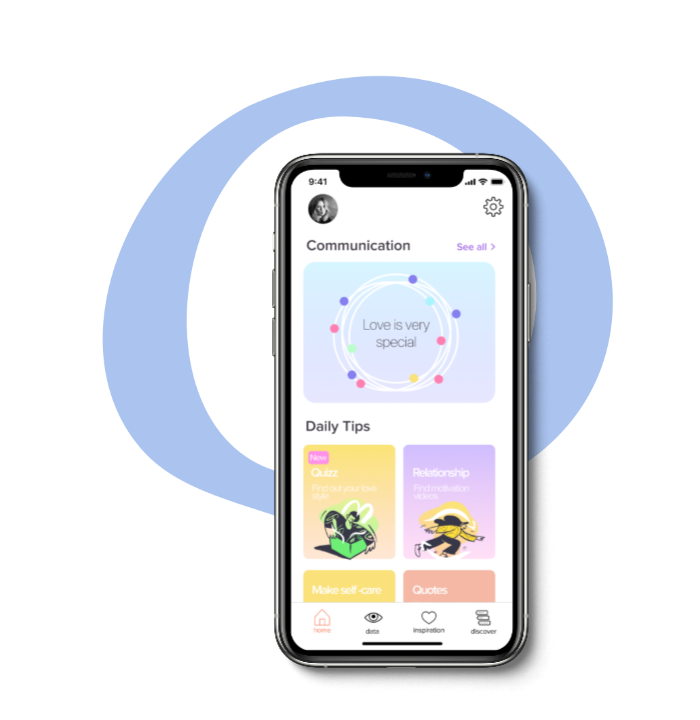
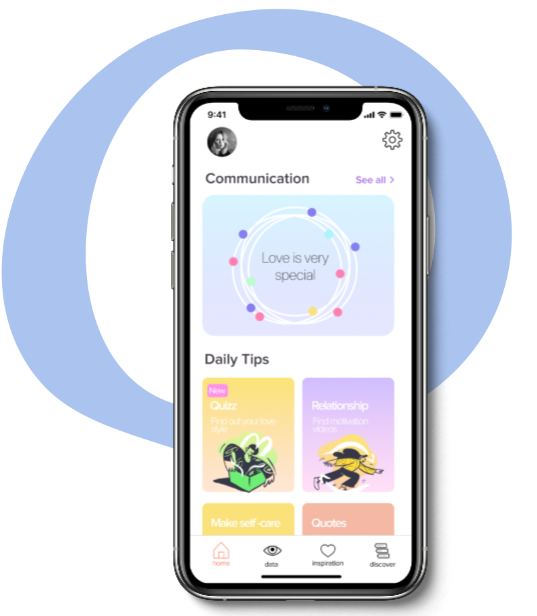
Updated to Jumbotron

diff --git a/index.html b/index.html
@@ -62,18 +62,18 @@
         </div>
       </nav>
 
-
-<div class="container">
+<div class="jumbotron hero">
+<div class="container test">
     <div class="row">
-          <div class="col-5">
+          <div class="col-5 test">
               <h1 class="kerning">CommuniKate</h1><br>
             <h3>Love with Confidence.</br></br>
                 <h4>Send confident, clear and healthy messages with CommuniKate’s AI-powered writing side-kick.</h4>
             <img id="apple" src="images/AppStore.png">
             <img id="google" src="images/GooglePlay.png"> 
           </div>
-          <div class="col">
-            <img class="iphone" alt="iphone" src="images/heroimage.png">
+          <div class="col test">
+            <img class="iphone" alt="iphone" src="images/iphone-xs-mockup-perspective-style-right.png">
         </div>
     </div> 
 </div>
@@ -140,16 +140,27 @@
         <div class="col-sm">
             <h5><img id ="imglogo" src="images/Overline Mark.png"> OUR CUSTOMERS</h5>
             <h3>What does everyone think?</h3></div>
-        <div class="col-sm" id="Jenny">
+        <div class="col-sm quotes">
               <p>"Wow I love it, it feels like a friend is sitting next to me and is kind of cheering me on."</p>
               <h4><img class="icons" alt="loveheart" src="images/icons8-heart-100 1.png">Jenny Smith</h4>
         </div>
-        <div class="col-sm" id="Melissa">  
+        <div class="col-sm quotes"> 
               <p>"Usually it would take me forever to think of a response, so having a suggestions has really helped me stay calm and communicate effectively"</p>
                 <h4><img class="icons" alt="loveheart" src="images/icons8-ball-point-pen-128 1.png">Melissa Heart</h4>
         </div>
     </div>
 </div>
+
+<!-- <div class="jumbotron download test"> -->
+    <div class="container download">
+        <div class="row">
+            <div class="col-sm">
+                <h3>Download from the App Store or Google Play, install the plugin and check your relationship vibe. </h3></div>
+            <div class="col-sm">
+                <img id="apple" src="images/AppStore.png"><img id="google" src="images/GooglePlay.png"> 
+        </div>
+    <!-- </div> -->
+
 
 </body>
 </html>

diff --git a/css/style.css b/css/style.css
@@ -24,7 +24,7 @@ h3 {
     font-weight: bold;
     letter-spacing: 1px;
     color: black;
-    font-size: min(max(1rem, 1.5vw),36px);
+    font-size: min(max(0.8rem, 1.4vw),36px);
 }
 
 h4 {
@@ -32,7 +32,7 @@ h4 {
     font-style: normal;
     letter-spacing: 1px;
     color: black;
-    font-size: min(max(1rem, 1.5vw),36px);
+    font-size: min(max(0.8rem, 1.4vw),36px);
 }
 
 
@@ -47,7 +47,7 @@ p {
     font-family: 'Lato', sans-serif;
     font-weight: 300;
     color: black;
-    font-size: min(max(0.8rem, 1.1vw),16px);
+    font-size: min(max(0.7rem, 1.1vw),16px);
 }
 
 #apple {
@@ -58,10 +58,6 @@ min-height: auto;
 margin-top:8%;
 }
 
-#AIintro {
-    padding-left: 3%;
-}
-
 #google {
     width: 9vw;
     height: auto;
@@ -69,8 +65,9 @@ margin-top:8%;
     margin-left: 2%;
     }
 
-
-
+#AIintro {
+    padding-left: 3%;
+}
 
 .icons {
     width: 3vw;
@@ -78,7 +75,6 @@ margin-top:8%;
     padding: 2%;
     border-radius: 4px;
 }
-
 
 .container {
     width: 80%;
@@ -105,6 +101,15 @@ margin-top:8%;
     background-color:rgb(255, 215, 236) ;
 }
 
+.hero {
+    background-color: rgb(255, 236, 225);
+}
+
+.download {
+    background-color:white;
+    padding: 0.px;
+}
+
 .row {
     margin-left: 7%;
     margin-right: 7%;
@@ -116,14 +121,11 @@ margin-top:8%;
     padding-left: 3%;
 }
 
-.test {
-    color: black;
-}
 
-#nav {
+/* #nav {
     margin-top: 1%;
     margin-left: 10%;
-}
+} */
 
 #AIintro {
     margin-left: 6%;
@@ -131,16 +133,16 @@ margin-top:8%;
 }
 
 .iphone {
-    width: 20vw;
+    width: 30vw;
     height: auto;
     padding: 1%;
     border-radius: 4px;
     float: right;
 }
 
-.test {
+/* .test {
     border: 1px solid black;
-}
+} */
 
 #gif {
     width: 15vw;
@@ -158,10 +160,6 @@ margin-top:8%;
     border-radius: 4px;
 }
 
-.col-6 {
-   margin-top: 5%;
-    margin-left: 3%;
-}
 
 .navbar {
     position: relative;
@@ -169,15 +167,11 @@ margin-top:8%;
     height: auto;
     left: 10%;
     top: 26px;
-    background: #FFFFFF;
+    /* background: #FFFFFF; */
 }
 
-
-
-#Jenny {
+.quotes {
   background-color: white;
+  padding: 3%;
+  margin-left: 1%;
 }
-
-#Melissa {
-    background-color: white;
-  }
